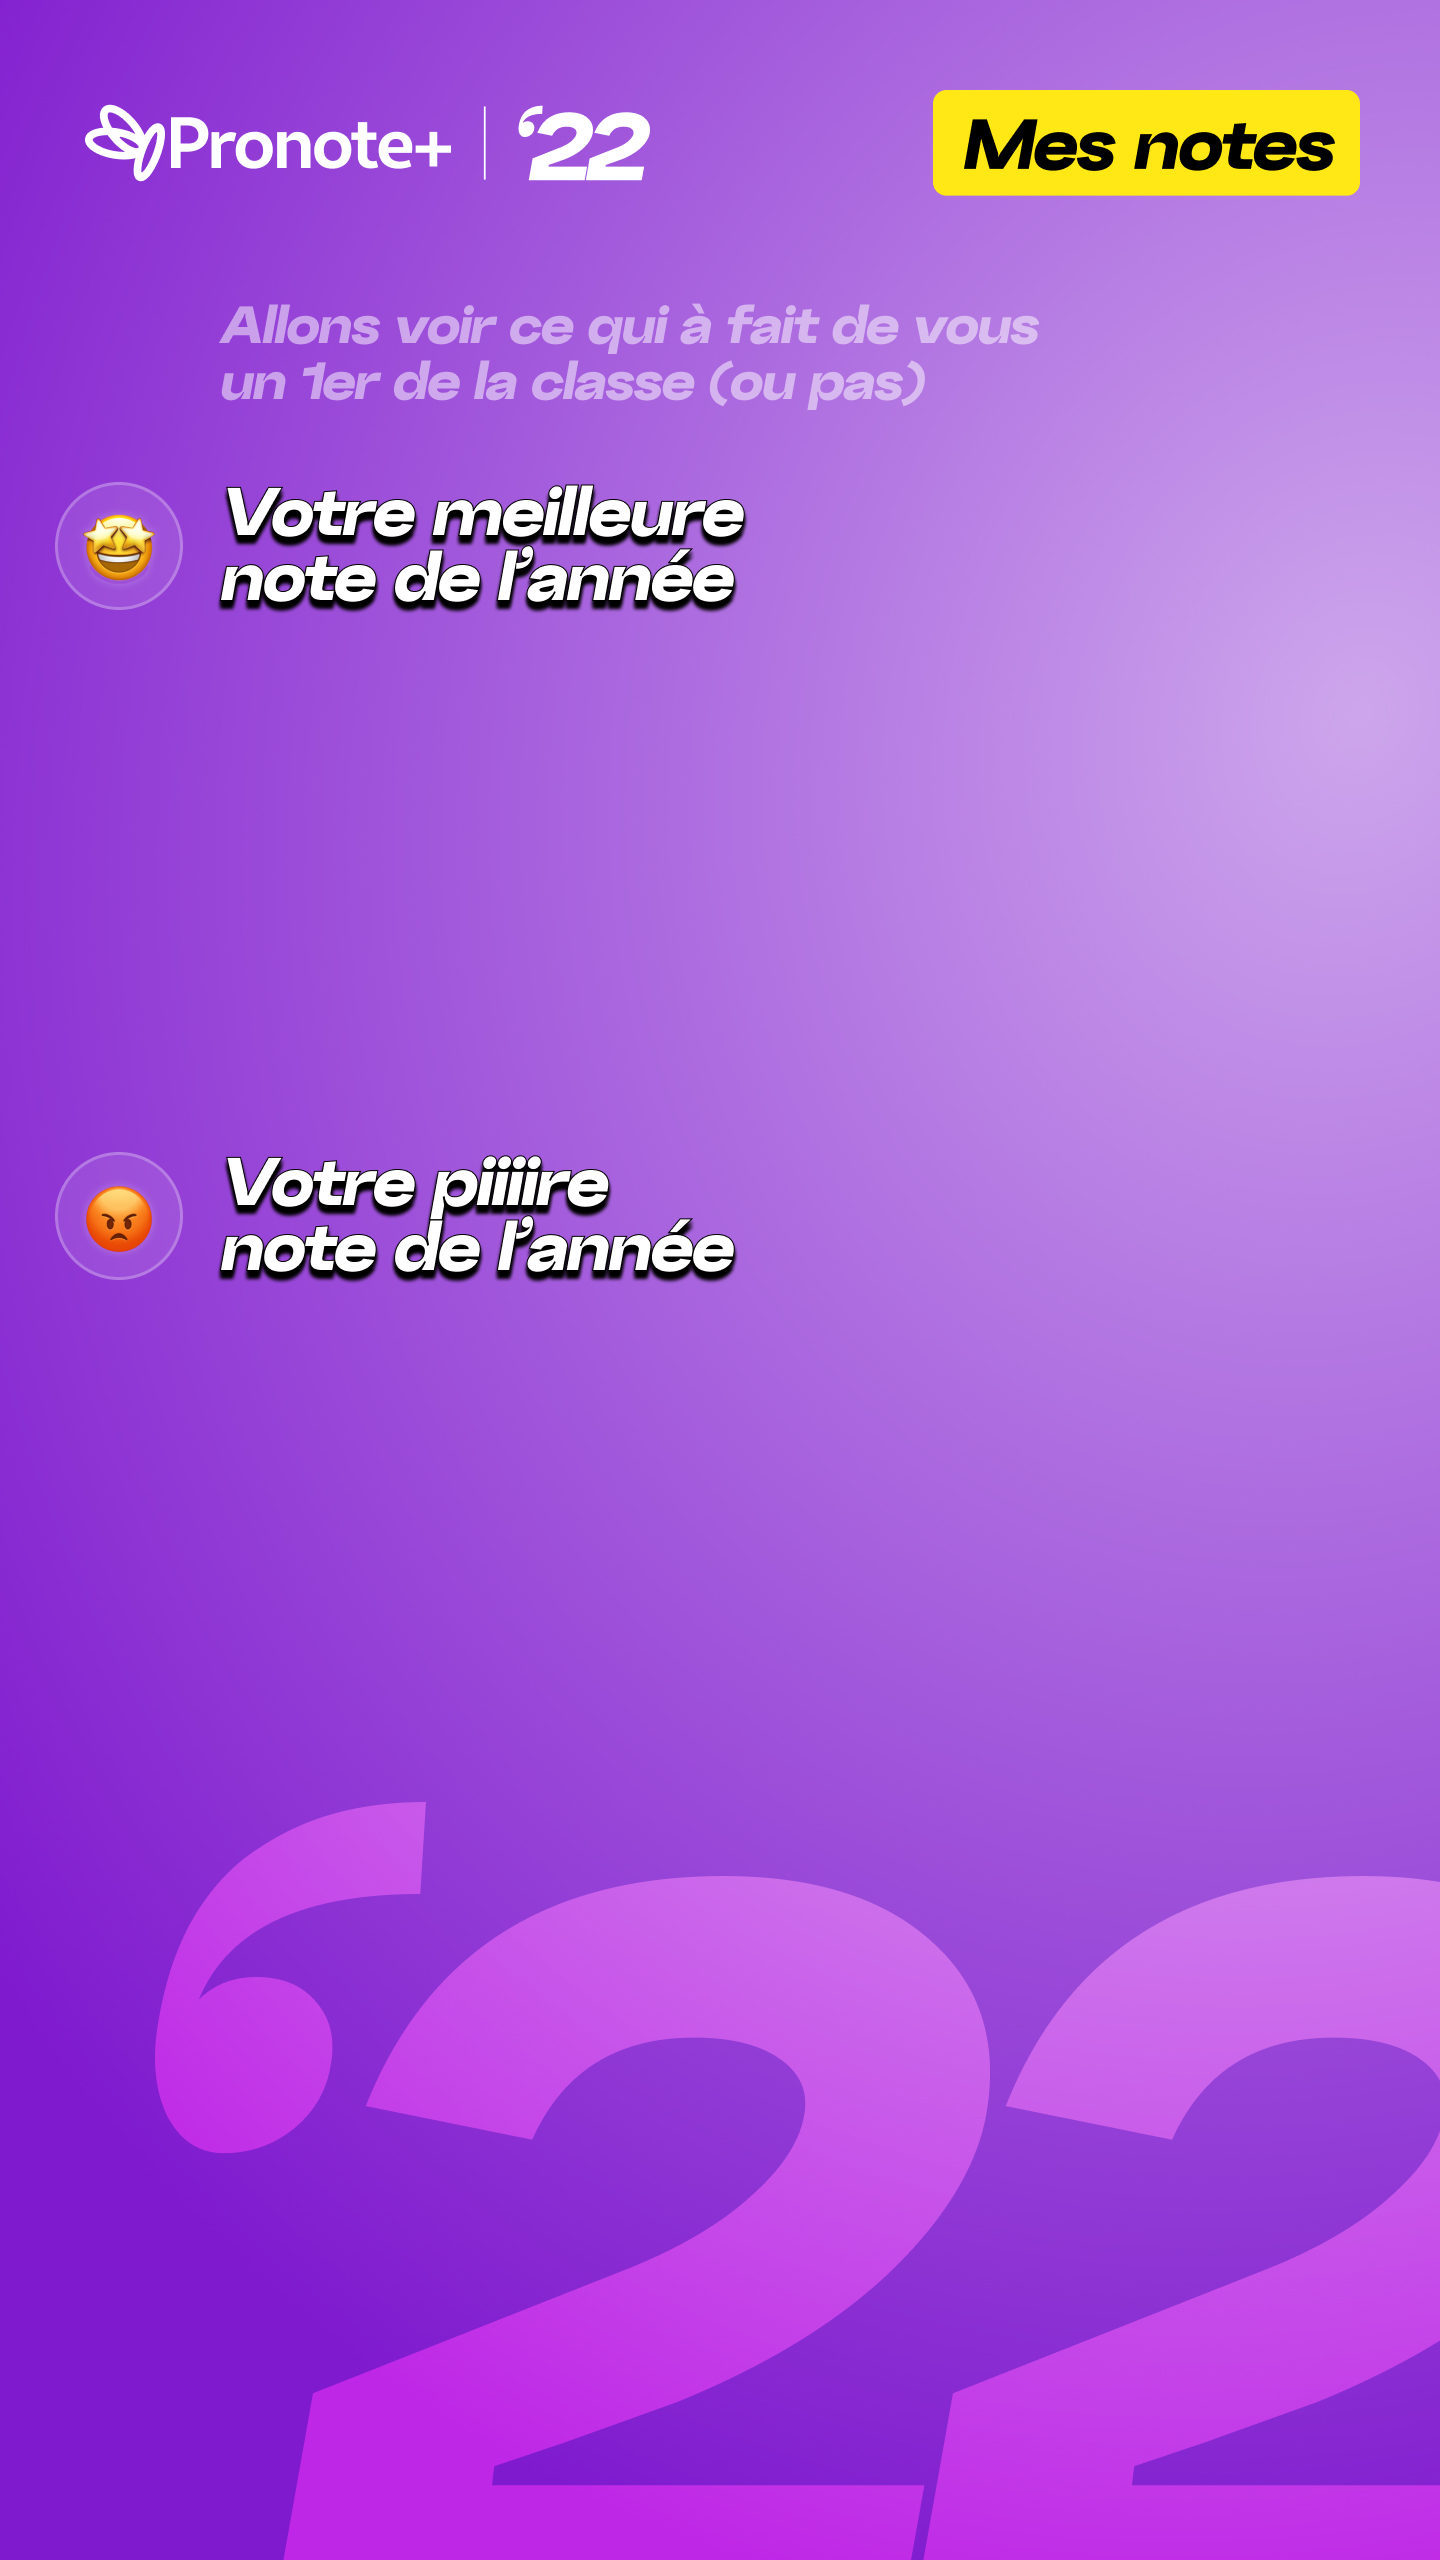
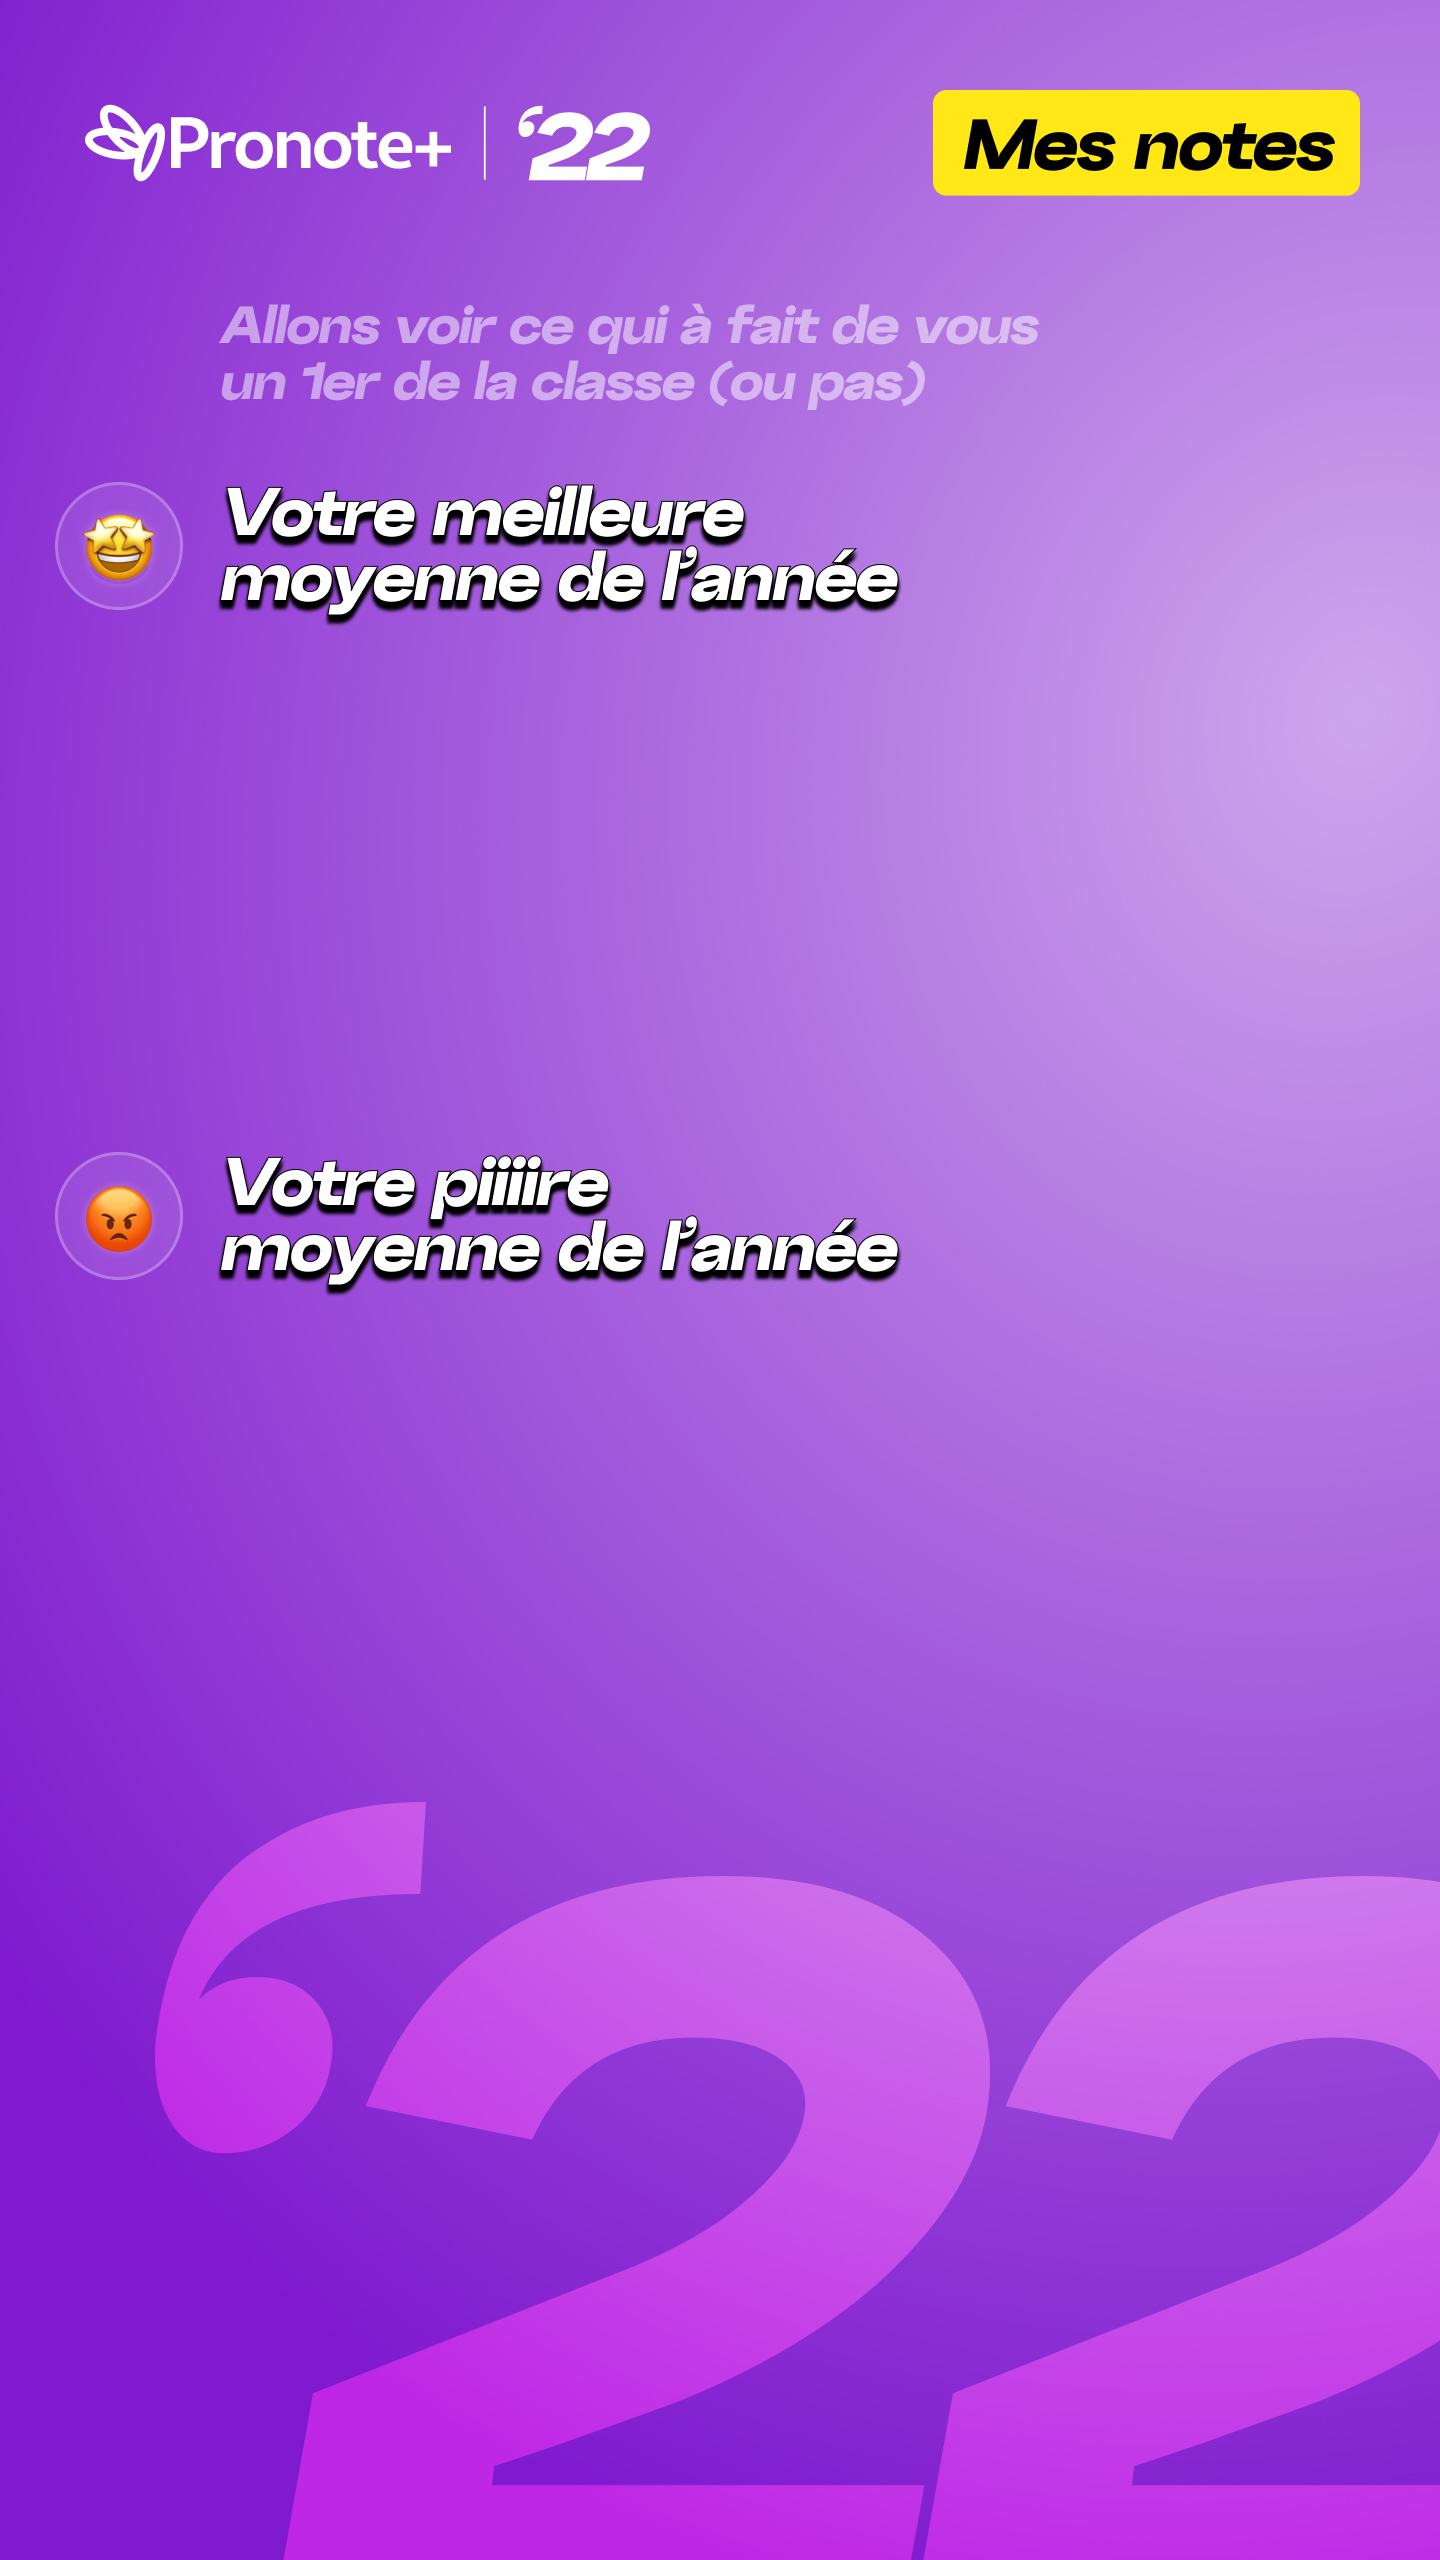
[Recap] Comparaison des moyennes au lieu des notes

Changed region(s): [[0.1562, 0.4688, 0.625, 0.5312], [0.1562, 0.1875, 0.625, 0.25]]

diff --git a/src/views/extras/RecapExtra.vue b/src/views/extras/RecapExtra.vue
@@ -92,52 +92,50 @@
                 let marks = this.marks;
                 console.log(marks);
 
-                    for (let i = 0; i < marks.length; i++) {
-                        let subject = marks[i];
+                // get best and worse subject average
+                let bestAverage = 0;
+                let worstAverage = 100;
 
-                        for (let j = 0; j < subject.marks.length; j++) {
-                            let mark = subject.marks[j];
+                let bestSubject = "";
+                let worstSubject = "";
 
-                            if (mark.scale == 20) {
-                                if (worstMark.length == 0) {
-                                    worstMark = [mark, subject];
-                                } else {
-                                    if (mark.value < worstMark[0].value) {
-                                        worstMark = [mark, subject];
-                                    }
-                                }
+                for (let i = 0; i < marks.length; i++) {
+                    let subject = marks[i];
 
-                                if (bestMark.length == 0) {
-                                    bestMark = [mark, subject];
-                                } else {
-                                    if (mark.value > bestMark[0].value) {
-                                        bestMark = [mark, subject];
-                                    }
-                                }
-                            }
-                        }
-
+                    if (subject.averages.student > bestAverage) {
+                        bestAverage = subject.averages.student;
+                        bestSubject = subject.name;
                     }
 
+                    if (subject.averages.student < worstAverage) {
+                        worstAverage = subject.averages.student;
+                        worstSubject = subject.name;
+                    }
 
-                    this.genDiap2(bestMark, worstMark);
+                    for (let j = 0; j < subject.marks.length; j++) {
+                        let mark = subject.marks[j];
+
+                        if (mark.value < worstMark.value || worstMark.length == 0) {
+                            worstMark = mark;
+                        }
+
+                        if (mark.value > bestMark.value || bestMark.length == 0) {
+                            bestMark = mark;
+                        }
+                    }   
+
+                }
+
+                    this.genDiap2(bestAverage, worstAverage, bestSubject, worstSubject, bestMark, worstMark);
                     console.log(bestMark);
             },
-            genDiap2(bestMark, worstMark) {
+            genDiap2(bestAverage, worstAverage, bestSubject, worstSubject, bestMark, worstMark) {
                 const canvas = createCanvas(720, 1280)
                 const ctx = canvas.getContext('2d')
 
-                // convertir la note en tofixed(2)
-                bestMark[0].value = parseInt(bestMark[0].value).toFixed(2);
-                worstMark[0].value = parseInt(worstMark[0].value).toFixed(2);
-
                 // separer les notes et la virgule
-                let bestMarkValue = bestMark[0].value.toString().split('.');
-                let worstMarkValue = worstMark[0].value.toString().split('.');
-
-                // get date string of both marks
-                let bestMarkDate = new Date(bestMark[0].date).toLocaleDateString('fr-FR', { weekday: 'long', year: 'numeric', month: 'long', day: 'numeric' });
-                let worstMarkDate = new Date(worstMark[0].date).toLocaleDateString('fr-FR', { weekday: 'long', year: 'numeric', month: 'long', day: 'numeric' });
+                let bestMarkValue = bestAverage.toString().split('.');
+                let worstMarkValue = worstAverage.toString().split('.');
 
                 // get diap2 image from /retrospective/diap2.svg
                 // and draw it on the canvas
@@ -153,13 +151,10 @@
                     ctx.fillText(bestMarkValue[0], 120, xPos)
 
                     ctx.font = 'bold  48px papillon'
-                    ctx.fillText("." + bestMarkValue[1] + " /" + bestMark[0].scale, 220, xPos)
+                    ctx.fillText("." + bestMarkValue[1] + " /20", 220, xPos)
 
                     ctx.font = '32px papillon'
-                    ctx.fillText('en ' + bestMark[1].name, 120, xPos + 50)
-
-                    ctx.font = '26px papillon'
-                    ctx.fillText('le ' + bestMarkDate, 120, xPos + 85)
+                    ctx.fillText('en ' + bestSubject, 120, xPos + 50)
 
                     // add 2nd text
                     ctx.fillStyle = '#ffffff'
@@ -172,13 +167,10 @@
                     ctx.fillText(worstMarkValue[0], 120, xPos)
 
                     ctx.font = 'bold  48px papillon'
-                    ctx.fillText("." + worstMarkValue[1] + " /" + worstMark[0].scale, 220, xPos)
+                    ctx.fillText("." + worstMarkValue[1] + " /20", 220, xPos)
 
                     ctx.font = '32px papillon'
-                    ctx.fillText('en ' + worstMark[1].name, 120, xPos + 50)
-
-                    ctx.font = '26px papillon'
-                    ctx.fillText('le ' + worstMarkDate, 120, xPos + 85)
+                    ctx.fillText('en ' + worstSubject, 120, xPos + 50)
 
                     // push the canvas to the items array
                     this.items.push(canvas.toDataURL())
